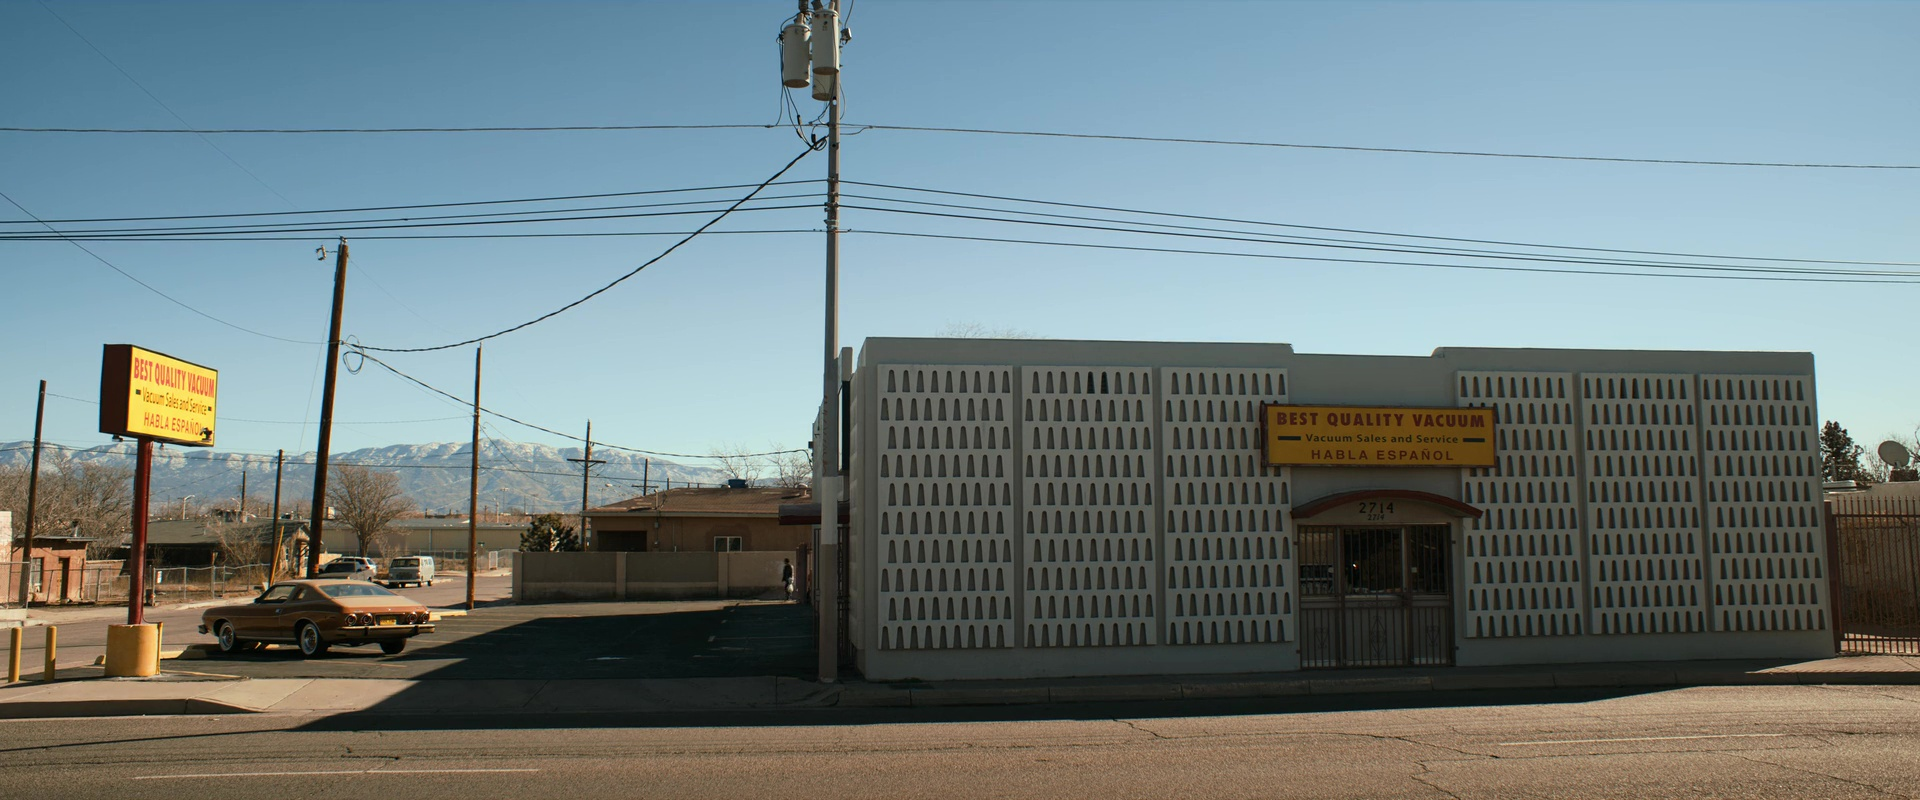
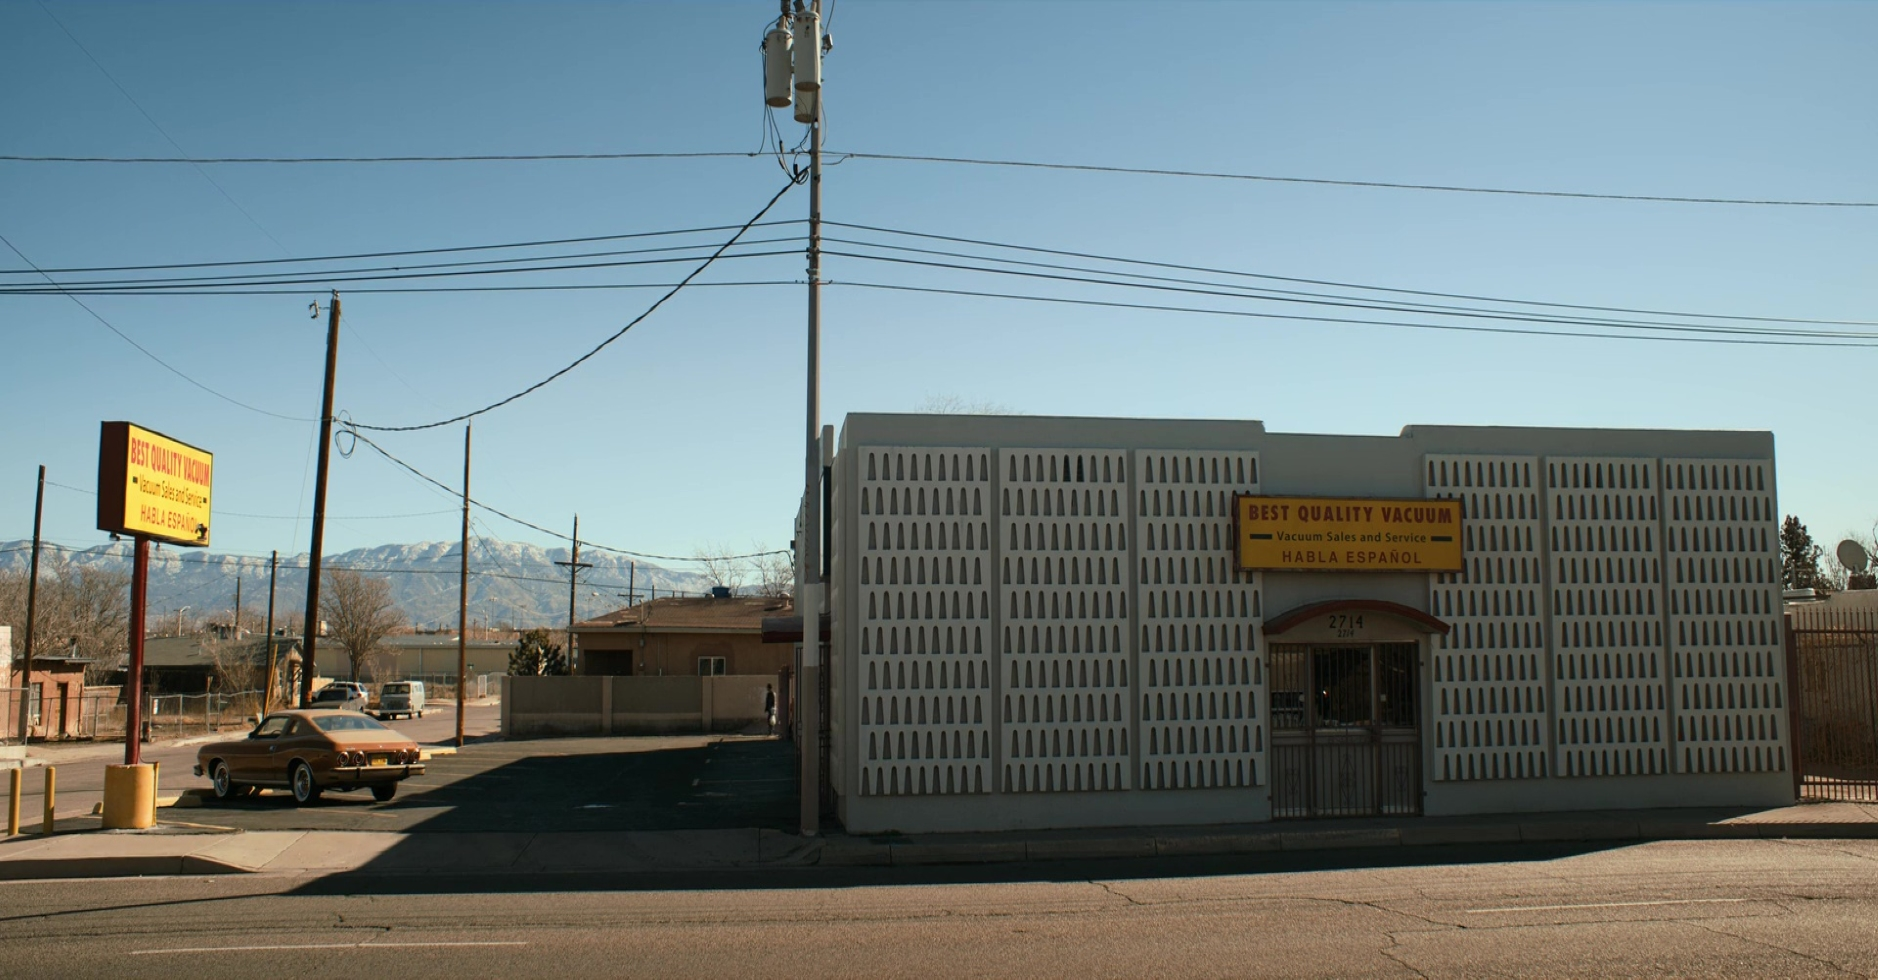
kataloog ja pealeht

diff --git a/pealeht.html b/pealeht.html
@@ -7,10 +7,7 @@
         <link rel='stylesheet' type='text/css' href='pealeht.css'>
     </head>
     <body>
-
 <!--navigatsiooniriba -->
-
-       <div class="background">
           <ul class="navbar">
             <span class="kriips"><li class="navbar-item"><a class="active" href="pealeht.html">Avaleht</a></li></span>
             <span class="kriips"><li class="navbar-item"><a href="kataloog.html">Kataloog</a></li></span>
@@ -19,7 +16,7 @@
           </ul>
 
 <!--sisu osa -->
-
+         <div class="pilt"><img src="pildid/pilt.jpg" class="pilt" alt="bg"></div>
            <div class="tekstikast">
               <div class="sisu">
                  <h1>BEST QUALITY VACUUM</h1>
@@ -37,7 +34,6 @@
            <div class="nupukast">
               <button><a href="kataloog.html">Poodi</a></button>
            </div>
-
         <!--alumine riba -->
 
             <ul class="bottombar">
@@ -54,5 +50,6 @@
                 alt="tw"></a></li>
             </ul>
        </div>
+    </div>
     </body>
 </html>

diff --git a/pealeht.css b/pealeht.css
@@ -1,9 +1,10 @@
 /*taustapilt*/
-.background {
-  background-image: url('pildid/pilt.jpg');
-  background-repeat: no-repeat;
-  background-attachment: fixed;
-  background-size: cover;
+.pilt {
+    display: block;
+    width: 100%;
+    height: auto;
+    z-index: -1;
+    position: absolute;
 }
 /*"Poodi" nupp, mis viib kataloogi*/
 button {
@@ -36,10 +37,10 @@ button:hover {
 }
 /*Kast kuhu sisse läheb nupp, määrab nupu paigutuse*/
 .nupukast {
+   z-index: 2;
   display:flex;
   justify-content: center;
   align-items:center;
-  margin-bottom: 100px;
   color: white;
 }
 /*Muudab nupukasti teksti ääre suuremaks*/
@@ -61,4 +62,8 @@ button:hover {
   align-items:center;
   color: white;
 }
-
+/*stickib alumise riba lehe alla*/
+.bottombar {
+    position: absolute;
+    bottom: -50px;
+}

diff --git a/kataloog.html b/kataloog.html
@@ -10,13 +10,14 @@
 
 <!--navigatsiooniriba -->
 
-    <div class="background">
+
        <ul class="navbar">
          <span class="kriips"><li class="navbar-item"><a class="active" href="pealeht.html">Avaleht</a></li></span>
          <span class="kriips"><li class="navbar-item"><a href="kataloog.html">Kataloog</a></li></span>
          <span class="kriips"><li class="navbar-item"><a href="firmast.html">Firmast</a></li></span>
          <span class="kriips"> <li class="navbar-item"><a href="kontakt.html">Kontakt</a></li></span>
        </ul>
+      <div class="pilt"><img src="pildid/pilt2.jpg" class="pilt" alt="bg"></div>
        <br>
        <h2>KATALOOG</h2>
 

diff --git a/kataloog.css b/kataloog.css
@@ -1,10 +1,12 @@
-/*taustapilt*//**/
-.background {
-  background-image: url('pildid/pilt2.jpg');
-  background-repeat: no-repeat;
-  background-attachment: fixed;
-  background-size: cover;
+/*taustapilt*/
+.pilt {
+    display: block;
+    width: 100%;
+    height: auto;
+    z-index: -1;
+    position: absolute;
 }
+
 /*galerii tootekaartide jaoks, määrab paigutuse*/
 .gallery{
   display: flex;
@@ -65,4 +67,3 @@ p{
   font-size: 20px;
   color: #737373;
 }
-

diff --git a/firmast.html b/firmast.html
@@ -8,7 +8,7 @@
         <title>Best Quality Vacuum</title>
     </head>
 
-    <body style="background-color: #333">
+    <body>
         <ul class="navbar">
             <span class="kriips"><li class="navbar-item"><a class="active" href="pealeht.html">Avaleht</a></li></span>
              <span class="kriips"><li class="navbar-item"><a href="kataloog.html">Kataloog</a></li></span>

diff --git a/kontakt.html b/kontakt.html
@@ -13,8 +13,8 @@
     </head>
 
     <body>
-        
-        <div class="k">  
+
+        <div class="k">
             <ul class="navbar">
                 <span class="kriips"><li class="navbar-item"><a class="active" href="pealeht.html">Avaleht</a></li></span>
                  <span class="kriips"><li class="navbar-item"><a href="kataloog.html">Kataloog</a></li></span>

diff --git a/style.css b/style.css
@@ -3,12 +3,13 @@
 @import url('https://fonts.googleapis.com/css2?family=Source+Sans+Pro:wght@500&display=swap');
 
 body {
-    background-color: #F4F4F4 ;
+    background-color: #333;
     margin:0px;
     font-family: Source Sans Pro;
     font-style: normal;
     font-weight: normal;
     height: 100%;
+    zoom: 110%;
 }
 .wrapper {
     min-height: 100%;
